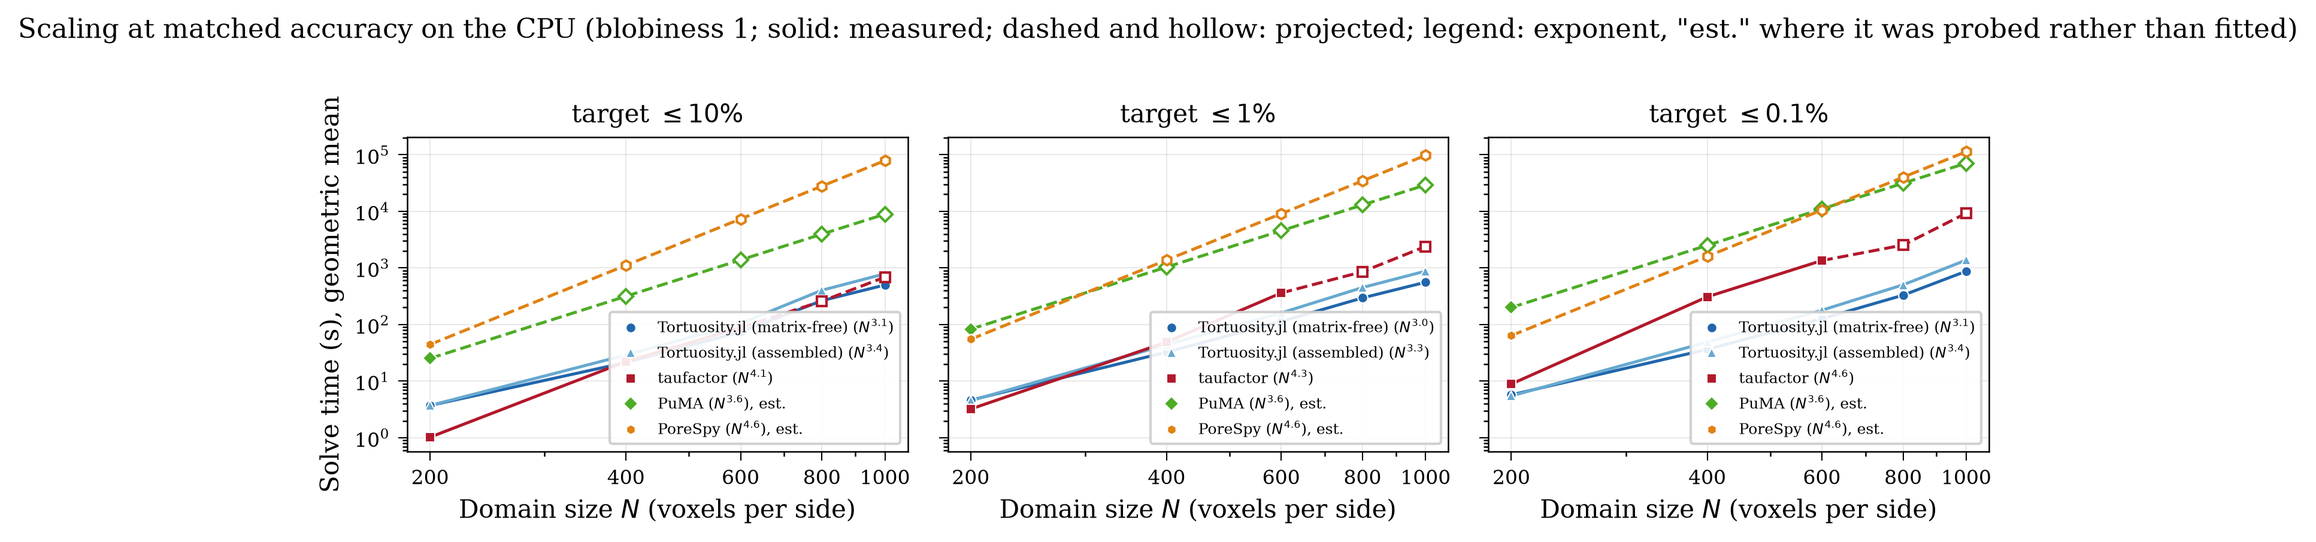
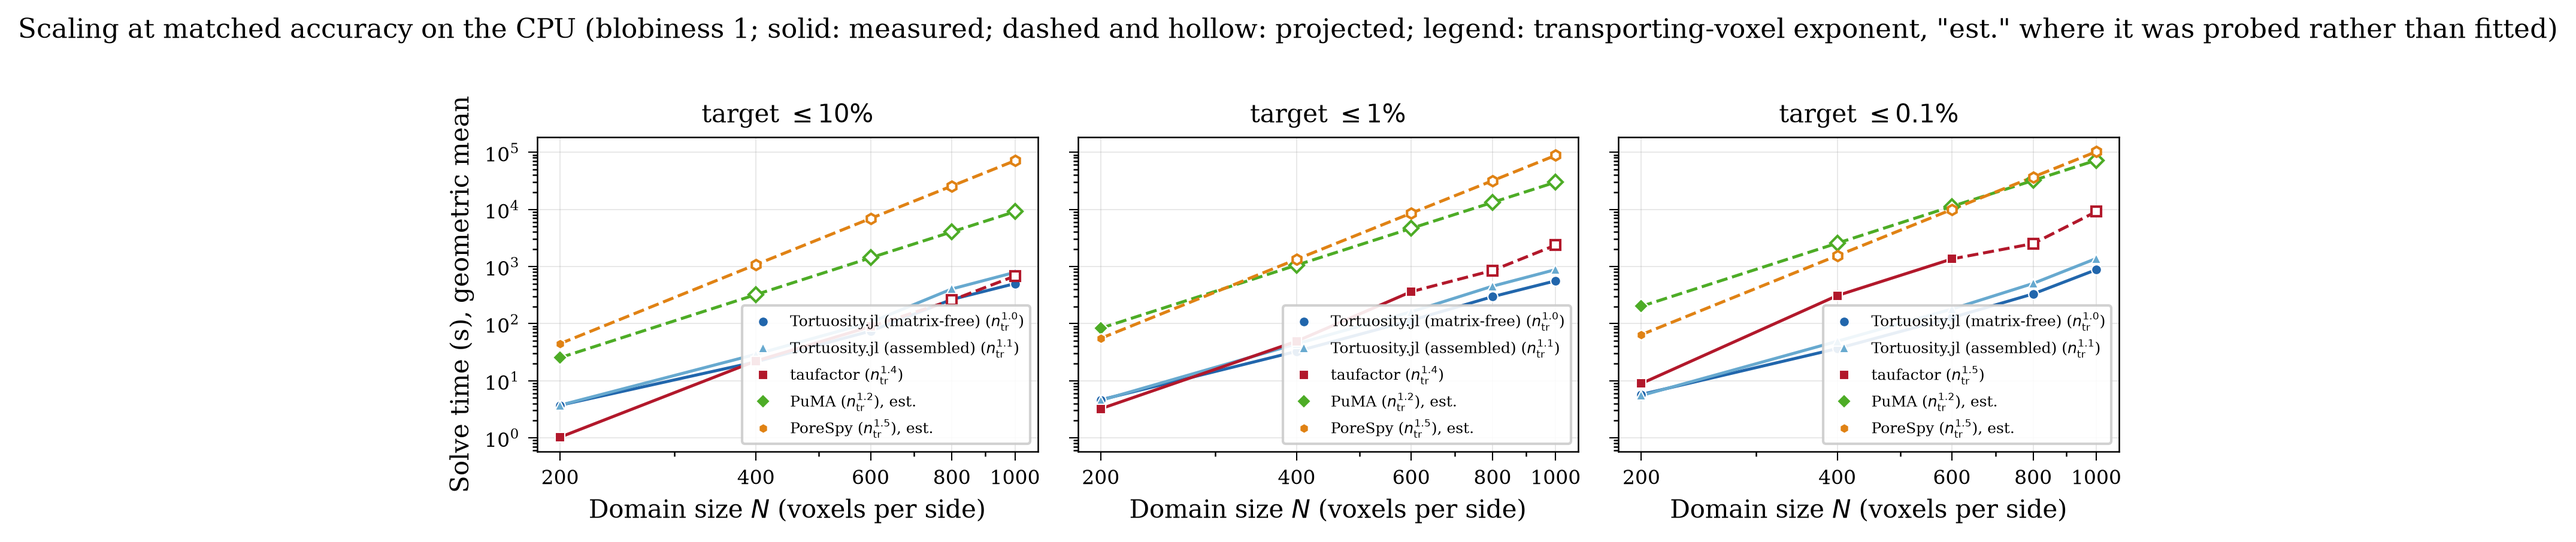
fix(benchmarks): revise paper scaling comparison
Use consistent grouped bars in the paper summary and distinguish measured from projected timings. Fit scaling laws and calibration probes against recorded transporting-voxel counts.

diff --git a/benchmarks/make_figures.py b/benchmarks/make_figures.py
@@ -158,7 +158,7 @@ def out_of_memory(timings, *, device, series, size, porosity, blobiness):
     return bool((cell["stop_reason"] == "error").any())
 
 
-def scaling_points(campaign, device, target, sizes, series):
+def scaling_points(campaign, device, target, sizes, series, *, project_oom=False):
     """Time against size for one series: `(points, projected_sizes, exponent)`.
 
     Averaging over only the porosities a tool happened to reach makes the plotted
@@ -172,16 +172,21 @@ def scaling_points(campaign, device, target, sizes, series):
     So every size here averages over the same five porosities. A porosity the
     tool was never run at, or ran at without reaching the target inside its
     budget, is filled in from its own fitted power law over the sizes it did
-    reach. A porosity that ran out of memory is not filled in, and takes its
-    whole size off the curve: there is no honest mean over a set of images one of
-    which the tool cannot solve at all.
+    reach. A porosity that ran out of memory is not filled in by default, and
+    takes its whole size off the curve. ``project_oom`` permits an explicitly
+    hypothetical timing projection when the caller labels it as such.
     """
     times = fig.target_times(campaign.timings, target, device=device, series=series,
                              sizes=sizes, porosities=campaign.porosities,
                              blobiness=campaign.reference_blobiness)
-    # One power law per porosity rather than one for the series. The exponent
-    # rises steeply as the pore space closes -- taufactor spans 3.1 to 3.9 on the
-    # GPU and 3.2 to 5.0 on the CPU -- so a single exponent would project the
+    nodes = pore_counts(campaign)
+
+    def node_count(size, porosity):
+        return nodes[(size, porosity, campaign.reference_blobiness)]
+
+    # One power law per porosity rather than one for the series. The transporting-
+    # voxel exponent rises as the pore space closes -- taufactor spans 1.0 to 1.3
+    # on the GPU and 1.1 to 1.7 on the CPU -- so one exponent would project the
     # dense images, the ones that are missing, at the open images' rate.
     # A tool swept at one size has no fit of its own, but the campaign measures
     # its size dependence directly in `results/scaling-probes.csv` — a matched
@@ -194,10 +199,13 @@ def scaling_points(campaign, device, target, sizes, series):
     for por in campaign.porosities:
         measured = [n for n in sizes if np.isfinite(times[(n, por)])]
         if len(measured) >= PROJECTION_MIN_SIZES:
-            fits[por] = fig.power_law(measured, [times[(n, por)] for n in measured])
+            counts = [node_count(n, por) for n in measured]
+            fits[por] = fig.power_law(counts, [times[(n, por)] for n in measured])
         elif probe is not None and measured:
             anchor = max(measured)
-            fits[por] = (times[(anchor, por)] / anchor ** probe, probe, np.nan)
+            anchor_voxels = node_count(anchor, por)
+            fits[por] = (times[(anchor, por)] / anchor_voxels ** probe,
+                         probe, np.nan)
 
     # `probed` records that a filled-in value came from the probe rather than
     # from this series' own per-porosity fit, which is what the log below has to
@@ -212,13 +220,15 @@ def scaling_points(campaign, device, target, sizes, series):
                 filled.append(value)
                 continue
             porosity_fit = fits.get(por)
-            if porosity_fit is None or out_of_memory(
-                    campaign.timings, device=device, series=series, size=size,
-                    porosity=por, blobiness=campaign.reference_blobiness):
+            exhausted = out_of_memory(
+                campaign.timings, device=device, series=series, size=size,
+                porosity=por, blobiness=campaign.reference_blobiness
+            )
+            if porosity_fit is None or (exhausted and not project_oom):
                 filled = None
                 break
             a, exponent, _ = porosity_fit
-            filled.append(a * size ** exponent)
+            filled.append(a * node_count(size, por) ** exponent)
             borrowed = True
             probed = probed or (probe is not None and exponent == probe)
         if not filled:
@@ -232,7 +242,10 @@ def scaling_points(campaign, device, target, sizes, series):
     # whether the two agree, which is the one thing a reader should be able to
     # check by eye.
     solid = [(n, t) for n, t in points if n not in projected]
-    fit = fig.power_law([n for n, _ in solid], [t for _, t in solid]) if len(solid) >= 3 else None
+    solid_counts = [fig.geomean([node_count(n, por)
+                                 for por in campaign.porosities])
+                    for n, _ in solid]
+    fit = fig.power_law(solid_counts, [t for _, t in solid]) if len(solid) >= 3 else None
     # Say what was projected and what was dropped. A curve that quietly stops
     # short, or quietly rests on a fit, reads exactly like one that does neither.
     if projected:
@@ -268,7 +281,7 @@ def draw_scaling_panel(ax, campaign, device, target, sizes):
         if not points:
             continue
         marker, color = fig.style_for(series)
-        label = series if fit is None else f"{series} ($N^{{{fit[1]:.1f}}}$)"
+        label = series if fit is None else f"{series} ($n_{{\\rm tr}}^{{{fit[1]:.1f}}}$)"
         if estimated:
             label += ", est."
         measured = [p for p in points if p[0] not in projected]
@@ -294,6 +307,85 @@ def draw_scaling_panel(ax, campaign, device, target, sizes):
     ax.grid(True)
 
 
+def draw_scaling_bar_panel(ax, campaign, device, target, sizes, series_slots):
+    """Show accuracy-matched scaling as grouped bars, one bar per tool and size."""
+    series_data = []
+    values = []
+    for series in campaign.series_on(campaign.timings, device):
+        project_oom = series == fig.series_label("tortuosity", "assembled")
+        points, projected, fit, estimated = scaling_points(
+            campaign, device, target, sizes, series, project_oom=project_oom
+        )
+        if not points:
+            continue
+        label = series if fit is None else f"{series} ($n_{{\\rm tr}}^{{{fit[1]:.1f}}}$)"
+        if estimated:
+            label += ", est."
+        series_data.append((series, dict(points), projected, label))
+        values.extend(value for _, value in points)
+
+    if not series_data:
+        return
+
+    reference = fig.series_label(*fig.REFERENCE_SERIES)
+    assembled = fig.series_label("tortuosity", "assembled")
+    by_series = {series: (points, projected)
+                 for series, points, projected, _ in series_data}
+    if reference in by_series and assembled in by_series:
+        reference_points, reference_projected = by_series[reference]
+        assembled_points, assembled_projected = by_series[assembled]
+        shared = [size for size in sizes
+                  if size in reference_points and size in assembled_points
+                  and size not in reference_projected
+                  and size not in assembled_projected]
+        if shared and assembled_projected:
+            ratio = fig.geomean(
+                [assembled_points[size] / reference_points[size] for size in shared]
+            )
+            for size in assembled_projected:
+                if size in reference_points:
+                    assembled_points[size] = reference_points[size] * ratio
+            logger.info(
+                f"{assembled} projected at {assembled_projected} using its "
+                f"{ratio:.2f}× measured ratio to {reference}"
+            )
+
+    x = np.arange(len(sizes), dtype=float)
+    width = 0.80 / series_slots
+    base = min(values) / 4
+    for i, (series, points, projected, label) in enumerate(series_data):
+        _, color = fig.style_for(series)
+        offset = (i - (len(series_data) - 1) / 2) * width
+        label_pending = True
+        for j, size in enumerate(sizes):
+            value = points.get(size)
+            if value is None:
+                continue
+            is_projected = size in projected
+            ax.bar(
+                x[j] + offset,
+                value - base,
+                width,
+                bottom=base,
+                color=color,
+                alpha=0.55 if is_projected else 1.0,
+                hatch="////" if is_projected else None,
+                edgecolor="white",
+                linewidth=0.4,
+                label=label if label_pending else None,
+                zorder=3,
+            )
+            label_pending = False
+
+    ax.set_xticks(x)
+    ax.set_xticklabels([str(size) for size in sizes])
+    ax.set_xlabel("Domain size $N$ (voxels per side)")
+    ax.set_ylabel("Solve time (s)")
+    ax.set_yscale("log")
+    ax.set_ylim(bottom=base)
+    ax.grid(True, axis="y", zorder=0)
+
+
 def figure_scaling(campaign):
     for device in campaign.devices(campaign.timings):
         sizes = campaign.sizes(campaign.timings, device, campaign.reference_blobiness)
@@ -315,7 +407,7 @@ def figure_scaling(campaign):
         np.atleast_1d(axes)[0].set_ylabel("Solve time (s), geometric mean")
         figure.suptitle(f"Scaling at matched accuracy on the {device.upper()} "
                         f"(blobiness {campaign.reference_blobiness:g}; solid: measured; "
-                        "dashed and hollow: projected; legend: exponent, "
+                        "dashed and hollow: projected; legend: transporting-voxel exponent, "
                         "\"est.\" where it was probed rather than fitted)", y=1.02)
         figure.tight_layout()
         campaign.save(figure, f"scaling_{device}.png")
@@ -337,7 +429,13 @@ def projected_time(campaign, device, series, times, size, porosity, sizes):
     if not measured or len(measured) >= PROJECTION_MIN_SIZES:
         return None
     anchor = max(measured)
-    return times[(anchor, porosity)] * (size / anchor) ** probe
+    nodes = pore_counts(campaign)
+    anchor_key = (anchor, porosity, campaign.reference_blobiness)
+    target_key = (size, porosity, campaign.reference_blobiness)
+    if nodes.get(anchor_key, 0) <= 0 or nodes.get(target_key, 0) <= 0:
+        return None
+    voxel_ratio = nodes[target_key] / nodes[anchor_key]
+    return times[(anchor, porosity)] * voxel_ratio ** probe
 
 
 def figure_time_bars(campaign):
@@ -957,14 +1055,16 @@ def figure_summary(campaign):
         return
     figure, axes = plt.subplots(len(devices), 2, squeeze=False, layout="constrained",
                                 figsize=(7.6, 3.1 * len(devices)))
+    series_slots = max(len(campaign.series_on(campaign.timings, d)) for d in devices)
     tag = iter("abcdefgh")
     for row, device in enumerate(devices):
         ax_scale, ax_map = axes[row]
         sizes = campaign.sizes(campaign.timings, device, campaign.reference_blobiness)
-        draw_scaling_panel(ax_scale, campaign, device, fig.PAPER_TARGET, sizes)
+        draw_scaling_bar_panel(
+            ax_scale, campaign, device, fig.PAPER_TARGET, sizes, series_slots
+        )
         ax_scale.set_ylabel("Solve time to $\\leq 0.1\\%$ error (s),\ngeometric mean over porosities")
-        # Every curve rises with N, so the large-N/short-time corner holds no data.
-        ax_scale.legend(loc="lower right", framealpha=0.9, fontsize=7)
+        ax_scale.legend(loc="upper left", framealpha=0.9, fontsize=7)
         ax_scale.set_title(f"({next(tag)}) {device.upper()}: scaling at matched accuracy", loc="left")
 
         available = campaign.series_on(campaign.timings, device)

diff --git a/benchmarks/benchkit/figures.py b/benchmarks/benchkit/figures.py
@@ -115,7 +115,8 @@ def load_probes(resultsdir):
     A tool too slow to sweep over the size grid still has a size dependence, and
     the campaign measures it directly rather than assuming one. Each row is a
     matched pair of solves on the same image at two sizes; the exponent follows
-    from the ratio. Kept out of ``results/timings/`` on purpose: these are single
+    from the timing and transporting-voxel ratios. Kept out of
+    ``results/timings/`` on purpose: these are single
     cases run to calibrate a projection, not campaign rows, and mixing them in
     would make a one-size tool look like a two-size one everywhere.
 
@@ -129,8 +130,15 @@ def load_probes(resultsdir):
     if probes.empty:
         return probes
     probes["series"] = [series_label(t, v) for t, v in zip(probes["tool"], probes["variant"])]
+    references = pd.read_csv(Path(resultsdir) / "references.csv")
+    nodes = references.drop_duplicates("case_id").set_index("case_id")["nnodes"]
+    probes["nodes_lo"] = probes["case_lo"].map(nodes)
+    probes["nodes_hi"] = probes["case_hi"].map(nodes)
+    if probes[["nodes_lo", "nodes_hi"]].isna().any(axis=None):
+        raise ValueError("scaling probe cases are missing from references.csv")
+    voxel_ratio = probes["nodes_hi"] / probes["nodes_lo"]
     probes["exponent"] = (np.log(probes["t_hi_s"] / probes["t_lo_s"])
-                          / np.log(probes["size_hi"] / probes["size_lo"]))
+                          / np.log(voxel_ratio))
     return probes
 
 
@@ -159,28 +167,27 @@ def geomean(values):
     return float(np.exp(np.log(v).mean())) if v.size else np.nan
 
 
-def power_law(sizes, times):
-    """Fit `t = a N^p` by least squares on `log t` against `log N`.
+def power_law(counts, times):
+    """Fit `t = a n^p` against the number of transporting voxels `n`.
 
     Returns `(a, p, r2)`, or `None` from fewer than three sizes, where a
     two-parameter fit would be interpolation with no residual left to judge it by.
 
     A power law is the only form the physics admits. Every solver here does a
-    fixed amount of work per unknown per iteration, the unknown count is a power
-    of the edge length, and the iteration count is itself a power of it, so the
-    product is one too. A polynomial in `N` fitted over a size range spanning a
-    factor of five is free to curve back on itself and put a plateau, or a fall,
-    on a page where the runtime can only rise.
+    fixed amount of work per unknown per iteration, and the iteration count can
+    itself depend on the unknown count. A polynomial fitted over this range is
+    free to curve back on itself and put a plateau, or a fall, on a page where
+    the runtime can only rise.
 
     Fitting a straight line has a closed form, which is exact and reads as the
     definition of the quantity it returns, so there is nothing here for a least
     squares routine to do.
     """
-    n = np.asarray(sizes, dtype=float)
+    voxels = np.asarray(counts, dtype=float)
     t = np.asarray(times, dtype=float)
-    if n.size < 3:
+    if voxels.size < 3:
         return None
-    x, y = np.log(n), np.log(t)
+    x, y = np.log(voxels), np.log(t)
     dx, dy = x - x.mean(), y - y.mean()
     p = float((dx * dy).sum() / (dx * dx).sum())
     a = float(np.exp(y.mean() - p * x.mean()))

diff --git a/paper/paper.md b/paper/paper.md
@@ -61,7 +61,7 @@ Validation combines analytical tests with comparisons against independent softwa
 
 Performance was evaluated on synthetic images ranging from $200^3$ to $1000^3$ voxels and covering five porosities and three characteristic feature sizes. Timings included the complete workflow from image input through problem construction and solution, and tools were compared at a common target of at most 0.1% relative error in $\tau$. On the GPU, taufactor was faster only for the smallest images ($N=200$) at the two highest porosities after averaging over the three feature sizes; end-to-end times for both tools were about one second or less. For the reference feature size shown in \autoref{fig:benchmark}, taufactor was faster in only one cell: at $N=200$ and $\varepsilon=0.95$, the reference tortuosity was 1.04 and the end-to-end times were 0.45 s for taufactor and 0.96 s for `Tortuosity.jl`. At the largest size, $N=1000$, `Tortuosity.jl` was faster at every porosity where both tools reached the accuracy target; at $\varepsilon=0.4$, for example, it required 22 s, compared with approximately 12 minutes for taufactor. Across the twelve porosity–feature-size combinations for which both tools reached the target at all five image sizes, `Tortuosity.jl` was faster by a geometric mean of $8.4\times$ at $1000^3$. On the CPU at $200^3$, `Tortuosity.jl` was faster in every shared case, with geometric-mean speedups of $31\times$ over PuMA and $10\times$ over PoreSpy. Its matrix-free representation also completed every percolating $1000^3$ test image on a GPU with 48 GiB of memory.
 
-![Time to reach at most 0.1% relative error in $\tau$ for the reference feature size. The scaling panels retain the same five porosities at every size; missing target times are projected from the same case family's measured size trend so that nonconverged cases do not bias the geometric mean downward. Solid lines show measured size sweeps, while dashed lines and hollow markers denote projections. Legend exponents describe empirical size scaling, with “est.” marking exponents derived from size probes rather than fitted sweeps. Panels (b) and (d) show measured speed ratios against taufactor on the GPU and CPU, respectively. Each cell is taufactor's time divided by the `Tortuosity.jl` time, so values above one favor `Tortuosity.jl` and values below one favor taufactor. An em dash indicates that no measured matched-accuracy ratio was available because taufactor was not run or did not reach the target before the timeout.\label{fig:benchmark}](benchmark_summary.png)
+![Time to reach at most 0.1% relative error in $\tau$ for the reference feature size. The scaling panels retain the same five porosities at every size; missing target times are projected from the same case family's measured size trend so that nonconverged cases do not bias the geometric mean downward. Solid bars show measured size sweeps, while hatched bars denote projections. For the assembled GPU method, hatched bars at the two largest sizes are hypothetical timing projections for cases that exceeded device memory; they preserve the geometric-mean assembled-to-matrix-free timing ratio at the shared measured sizes. Legend exponents describe empirical scaling with the recorded number of transporting voxels, $n_{\mathrm{tr}}$, with “est.” marking exponents derived from size probes rather than fitted sweeps. Panels (b) and (d) show measured speed ratios against taufactor on the GPU and CPU, respectively. Each cell is taufactor's time divided by the `Tortuosity.jl` time, so values above one favor `Tortuosity.jl` and values below one favor taufactor. An em dash indicates that no measured matched-accuracy ratio was available because taufactor was not run or did not reach the target before the timeout.\label{fig:benchmark}](benchmark_summary.png)
 
 # Limitations
 

diff --git a/benchmarks/README.md b/benchmarks/README.md
@@ -175,7 +175,7 @@ results/scaling-probes.csv      one measured size step per tool swept at a singl
 results/archive/<change>/       datasets superseded by that change
 ```
 
-`scaling-probes.csv` is what lets a tool measured at one size still appear across the whole size axis. PuMA and PoreSpy are too slow to sweep, so each was run once at 400³ beside its 200³ counterpart, and the ratio of the two gives an exponent. The figures project from that and mark every projected point: dashed line, hollow marker, and `est.` beside the exponent in the legend. The probes are kept out of `results/timings/` on purpose — they are single cases run to calibrate a projection, not campaign rows, and mixing them in would make a one-size tool look like a two-size one everywhere and would put an unpaired case into aggregates that assume the full porosity set.
+`scaling-probes.csv` is what lets a tool measured at one size still appear across the whole size axis. PuMA and PoreSpy are too slow to sweep, so each was run once at 400³ beside its 200³ counterpart, and the timing ratio gives an exponent with respect to the recorded number of transporting voxels. The figures project from that and mark every projected value: dashed lines and hollow markers in the standalone scaling figures, hatched bars in the paper summary, and `est.` beside the exponent in the legend. The probes are kept out of `results/timings/` on purpose — they are single cases run to calibrate a projection, not campaign rows, and mixing them in would make a one-size tool look like a two-size one everywhere and would put an unpaired case into aggregates that assume the full porosity set.
 
 The identifying columns — tool, device, variant, case, thread count, host, timestamp — are repeated on every row rather than encoded only in the filename, so post-processing concatenates the whole directory without parsing a name to know what it is reading. `environment.csv` exists because timings are only comparable within one machine and one software stack, and this campaign spans a laptop and a rented host by design.
 
